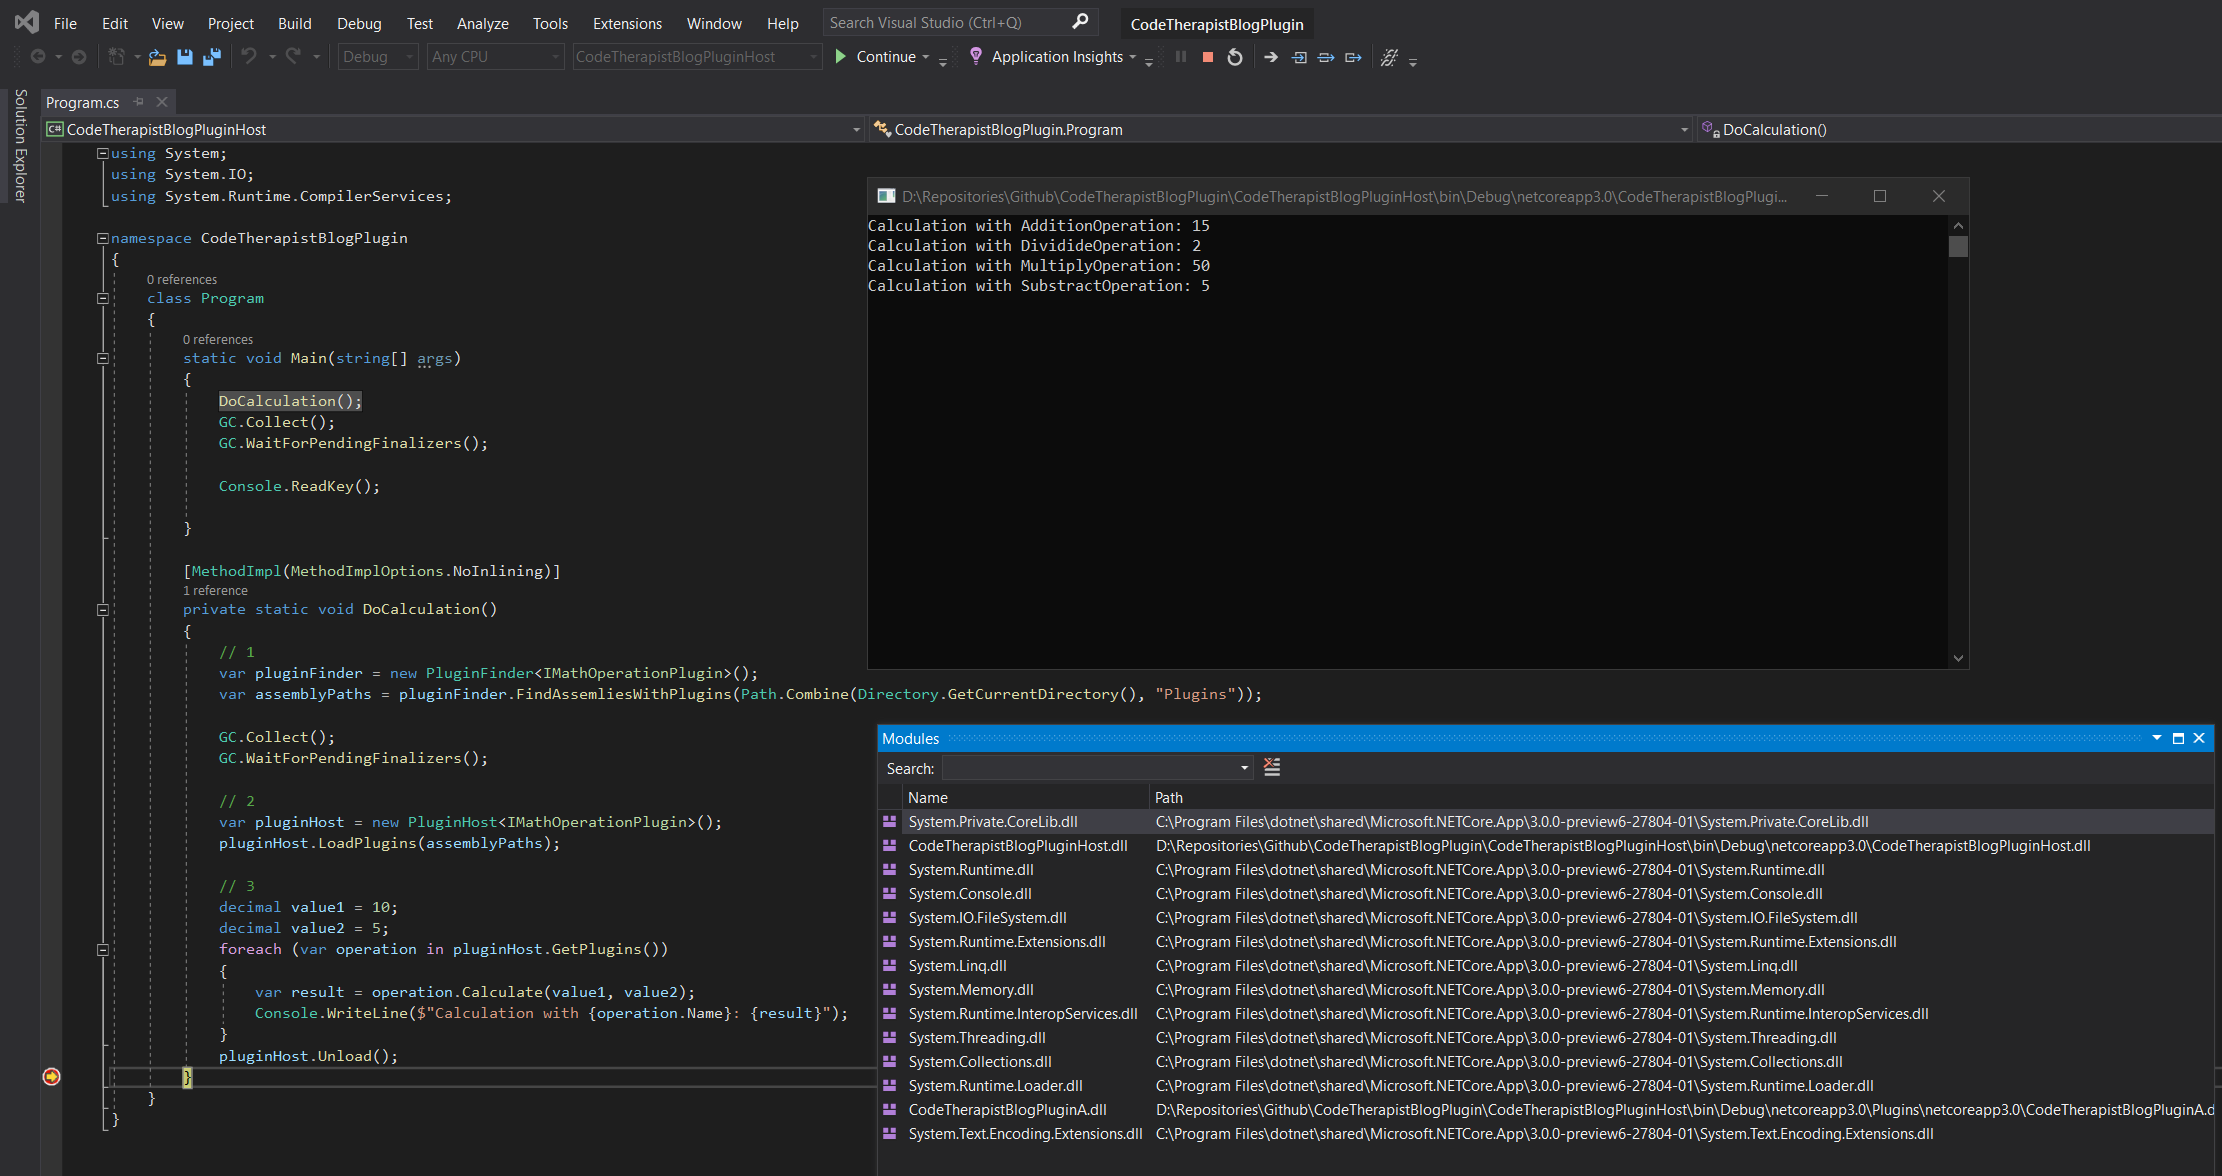
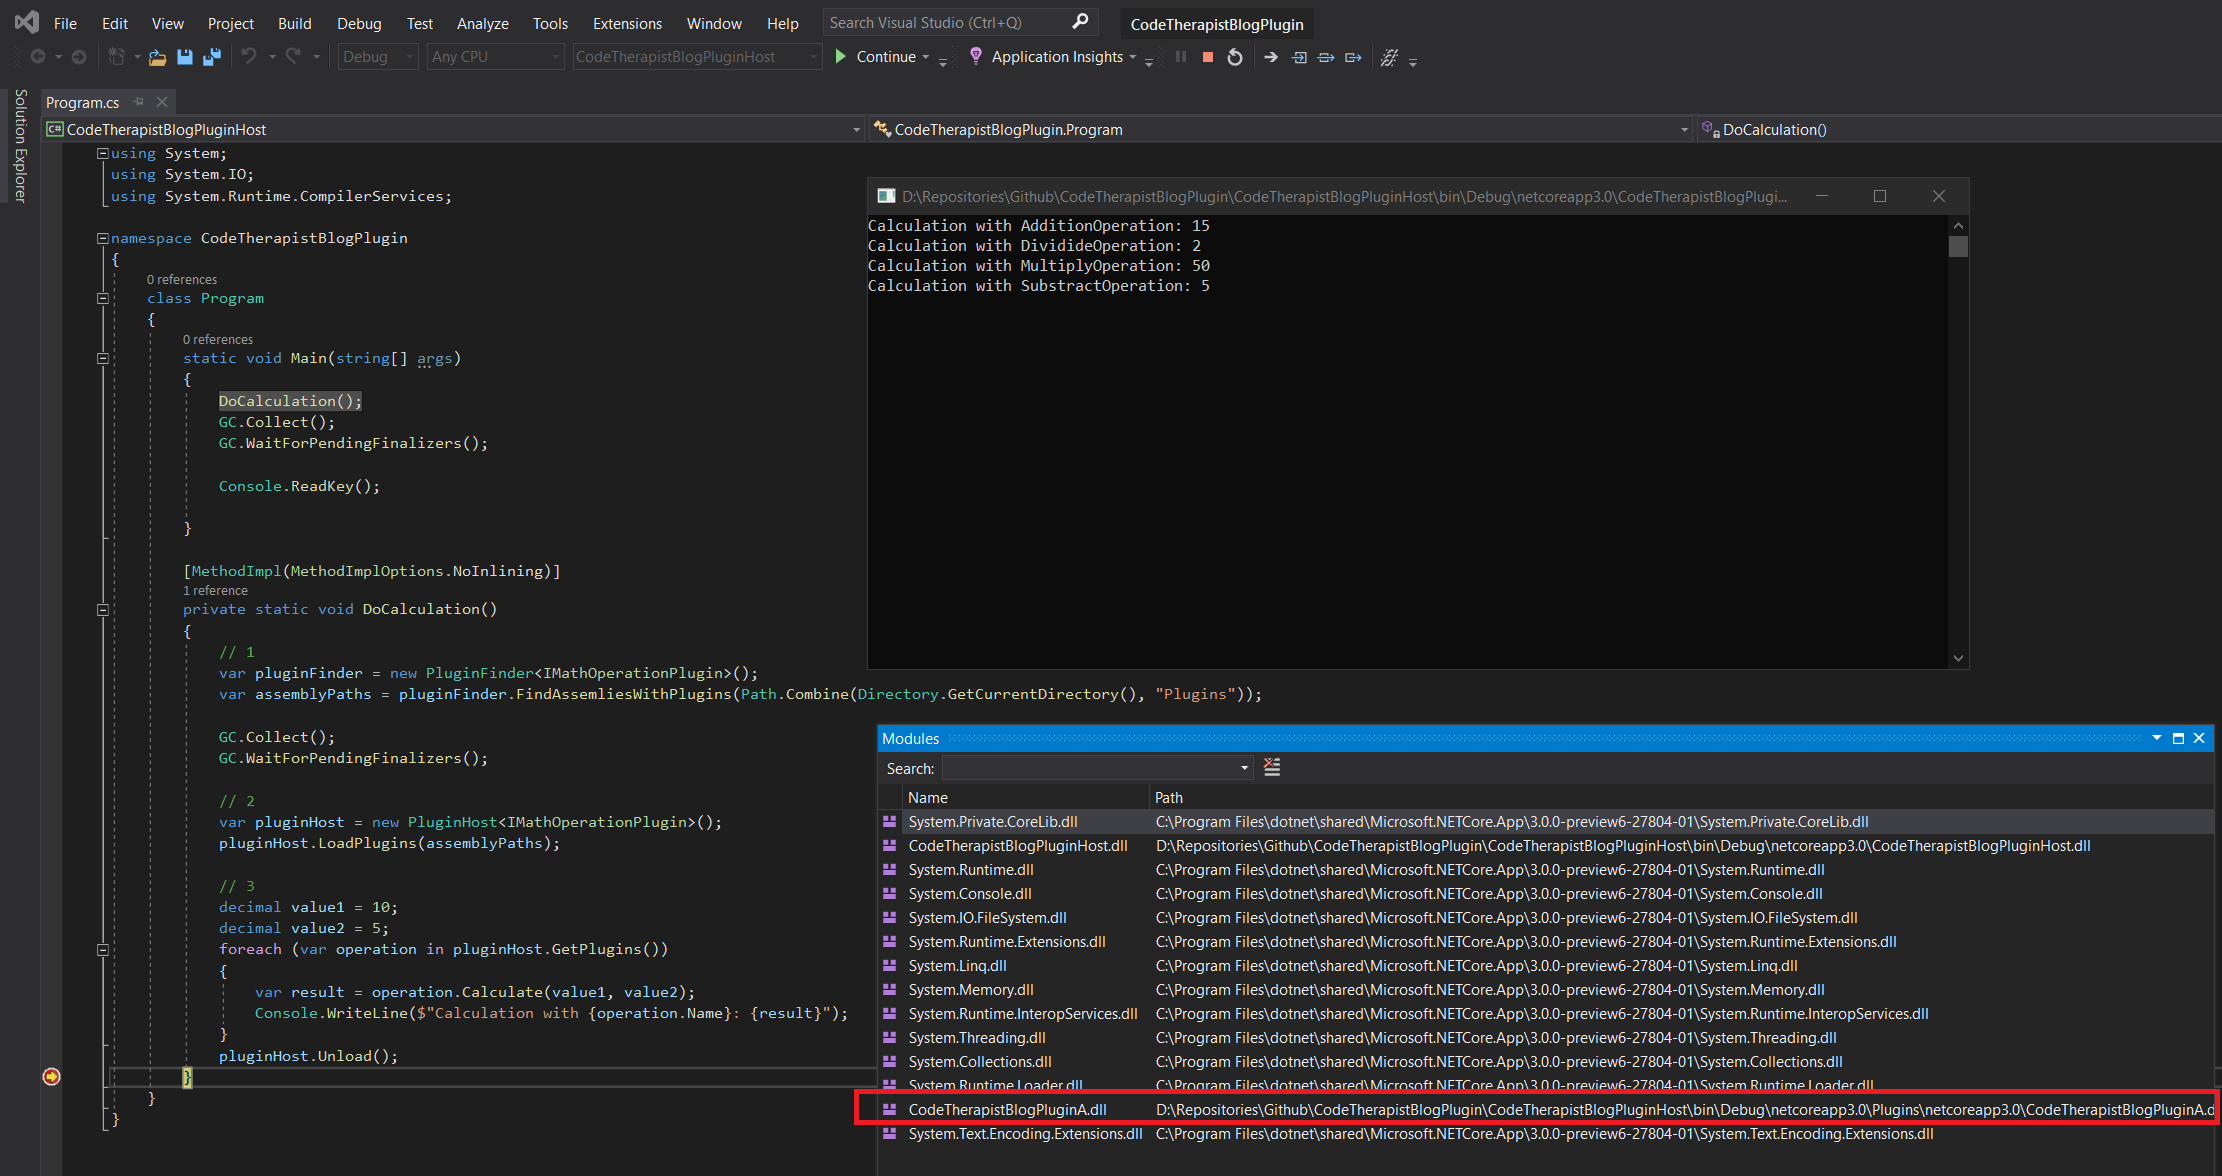
Post update: A plugin system with .NET Core
Clarify plugin assembly name

Changed region(s): [[0.3726, 0.9184, 1.0, 0.9796]]

diff --git a/_posts/2019-08-14-netcore3-plugin-system.md b/_posts/2019-08-14-netcore3-plugin-system.md
@@ -251,20 +251,20 @@ Before we load any plugin assembly, our module list contains everything that is 
     ![dotnet-30-before-find-plugin](/assets/img/dotnet30-plugin/dotnet-30-before-find-plugin.png)
 </a>
 
-Just after the scan, the list is growing and our plugin assembly is added to the list.
+Just after the scan, the list is growing and our plugin assembly is added to the list: **CodeTherapistBlogPluginA.dll**.
 
 <a href="/assets/img/dotnet30-plugin/dotnet-30-after-find-plugin.png" target="_blank"> 
     ![dotnet-30-after-find-plugin](/assets/img/dotnet30-plugin/dotnet-30-after-find-plugin.png)
 </a>
 
 Even though we have already called _AssemblyLoadContext.Unload()_ (inside _pluginFinder.FindAssemliesWithPlugins_), the assembly stays in the module list.
-Right after a full GC, the plugin assembly is removed.
+Right after a full GC, the plugin assembly named **CodeTherapistBlogPluginA.dll** is removed.
 
 <a href="/assets/img/dotnet30-plugin/dotnet-30-after-find-plugin-collected.png" target="_blank"> 
     ![dotnet-30-after-find-plugin-collected](/assets/img/dotnet30-plugin/dotnet-30-after-find-plugin-collected.png)
 </a>
 
-The plugin host will load the assembly again and execute all calculations.
+The plugin host will load the assembly (**CodeTherapistBlogPluginA.dll**) again and execute all calculations.
 
 <a href="/assets/img/dotnet30-plugin/dotnet-30-after-calculation.png" target="_blank"> 
     ![dotnet-30-after-calculation](/assets/img/dotnet30-plugin/dotnet-30-after-calculation.png)
